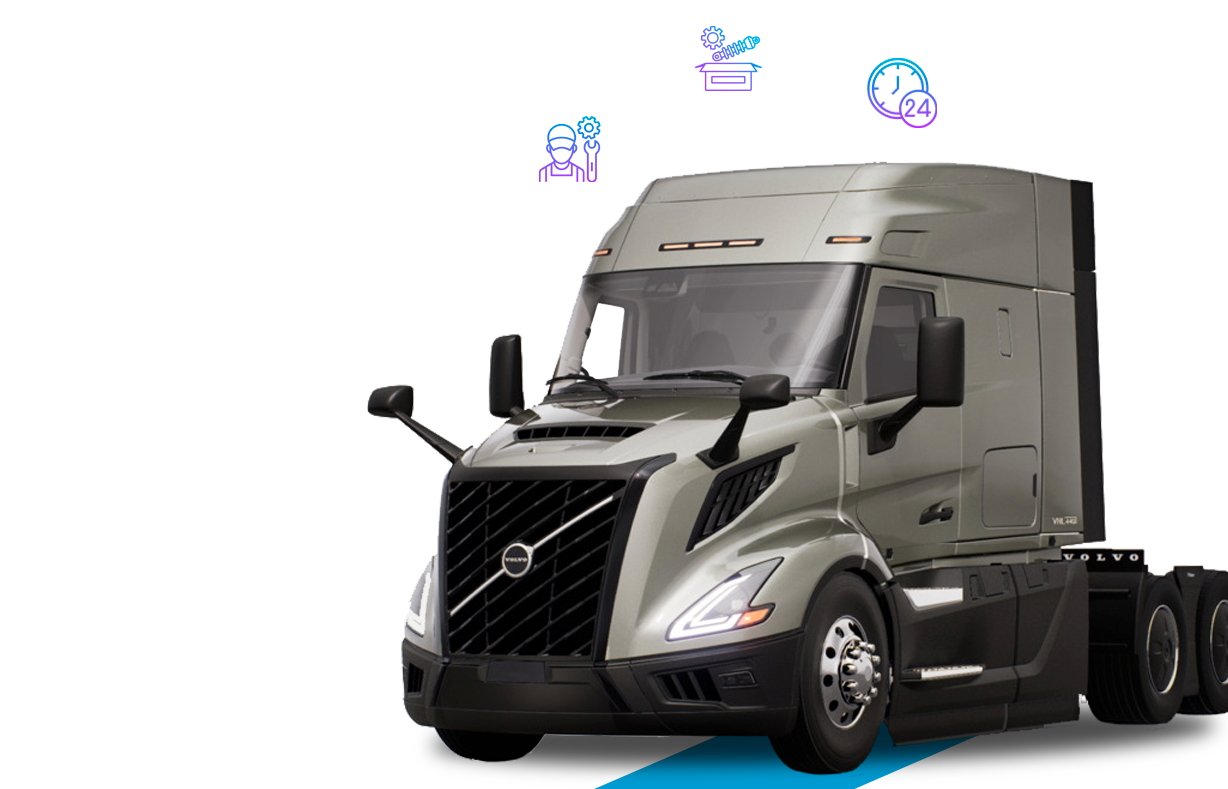
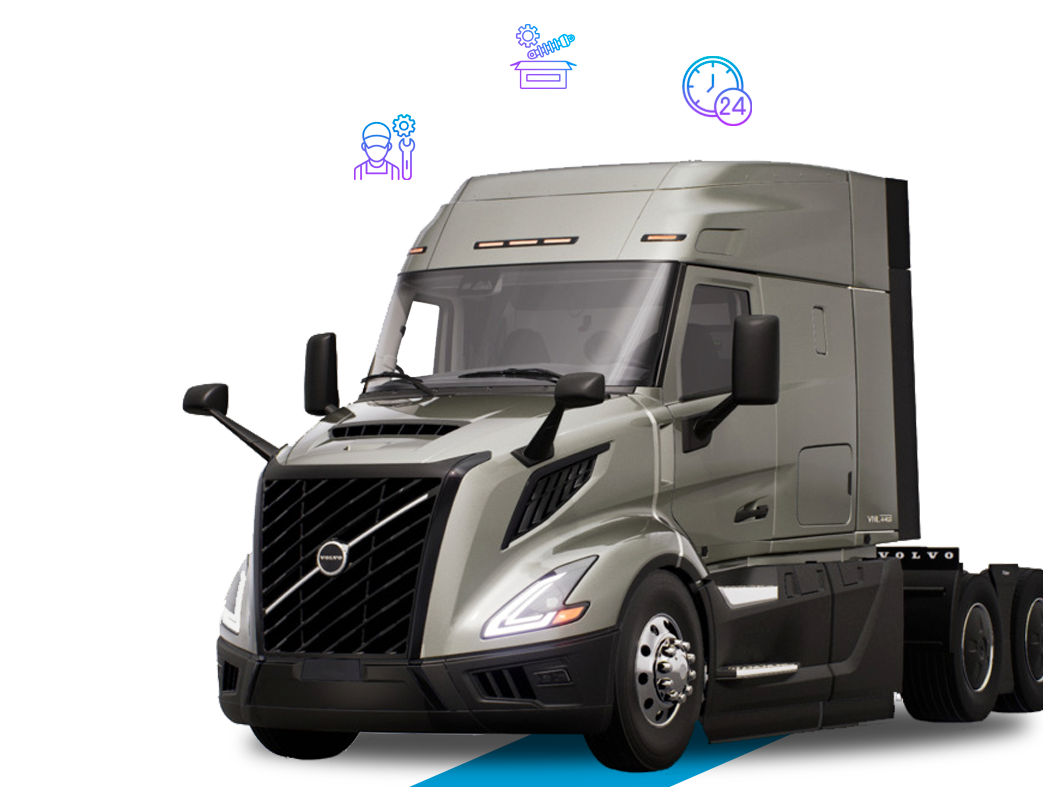
update mobile

diff --git a/index.html b/index.html
@@ -537,8 +537,8 @@ crossorigin="anonymous" referrerpolicy="no-referrer">
     <div class="footer-section">
         <div class="container">
             <div class="row footer-center footer-responsive">
-                <!--<div class="col-xl-3 col-lg-4 col-md-3 col-sm-6 d-xl-block d-none">
-                </div>-->
+                <div class="col-xl-3 col-lg-4 col-md-3 col-sm-6 d-xl-block d-none">
+                </div>
                 <div class="col-xl-3 col-lg-4 col-md-4 col-sm-6 col-12">
                     <a class="footer-a pt-0" href="index.html">
                         <figure class="navbar-brand-footer" data-aos="flip-left">

diff --git a/css/mobile.css b/css/mobile.css
@@ -329,8 +329,8 @@
 
   .footer-outer-margin figure img 
   {
-    width: 594px;
-    height: 594px;
+    width: 494px;
+    height: 494px;
   }
 
   .footer-bar .f-bar-left 
